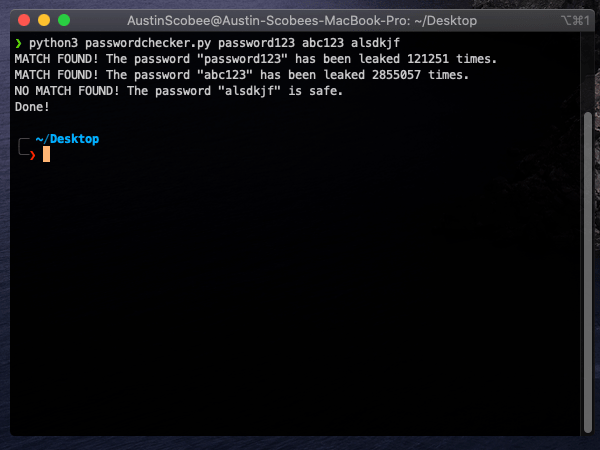
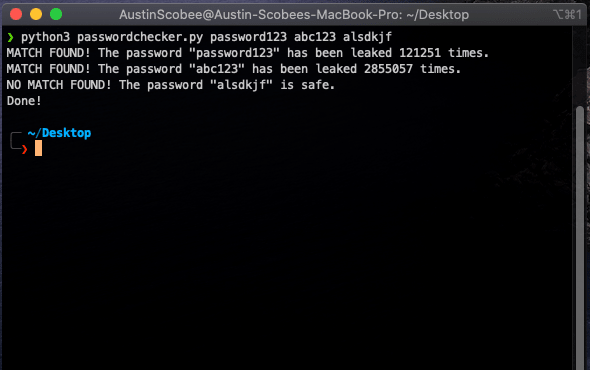
minor updates

Changed region(s): [[0.0, 0.0, 1.0, 1.0]]

diff --git a/templates/passwordchecker.html b/templates/passwordchecker.html
@@ -92,13 +92,11 @@
         <div class="col-md-8 col-md-offset-2 section-container-spacer">
           <div class="row">
             <div class="col-xs-12 col-md-6">
-              <a href="./static/assets/images/passwordcheckerterminal02.png" target="_blank" title="Click to enlarge"
+              <a href="./static/assets/images/passwordcheckerterminal.png" target="_blank" title="Click to enlarge"
                 class="">
-                <img src="./static/assets/images/passwordcheckerterminal02.png" class="img-responsive img-rounded"
+                <img src="./static/assets/images/passwordcheckerterminal.png" class="img-responsive img-rounded"
                   alt="Password Checker Terminal">
               </a>
-              <!-- <img src="./static/assets/images/passwordcheckerterminal02.png" class="img-responsive img-rounded"
-                alt="Password Checker Terminal"> -->
               <p>Password Checker Terminal</p>
             </div>
             <div class="col-xs-12 col-md-6">
